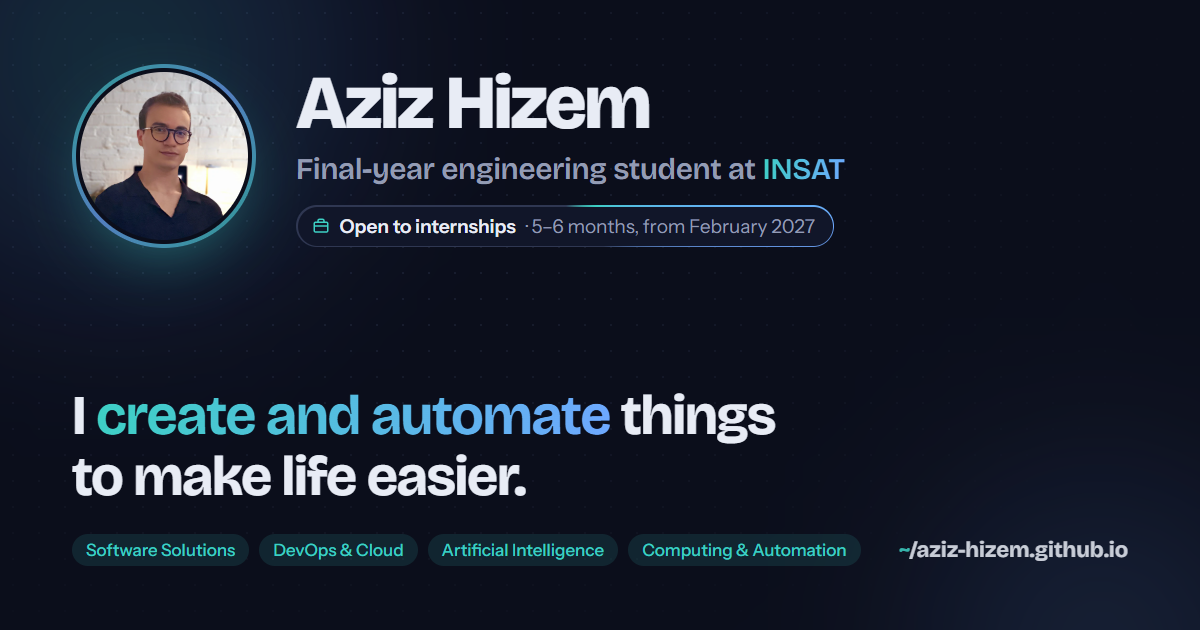
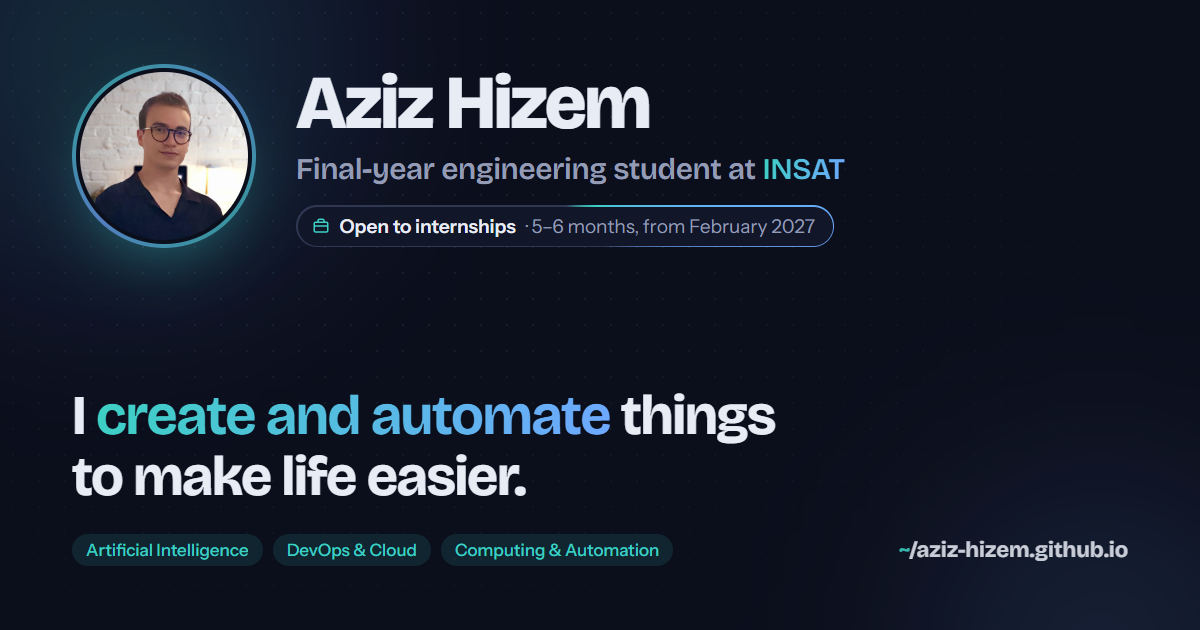
Focus tags: Artificial Intelligence, DevOps & Cloud, Computing & Automation
Drops Software Solutions, on the site and on the link-preview picture.

Changed region(s): [[0.37, 0.8444, 0.7092, 0.9048], [0.0617, 0.8444, 0.3392, 0.9048]]

diff --git a/src/data/profile.js b/src/data/profile.js
@@ -12,7 +12,7 @@ export const profile = {
     label: 'Open to internships',
     detail: 'End-of-studies internship, 5–6 months, starting February 2027',
   },
-  interests: ['Software Solutions', 'DevOps & Cloud', 'Artificial Intelligence', 'Computing & Automation'],
+  interests: ['Artificial Intelligence', 'DevOps & Cloud', 'Computing & Automation'],
   links: {
     github: 'https://github.com/aziz-hizem',
     linkedin: 'https://www.linkedin.com/in/azizhizem/',

diff --git a/tools/og-image.html b/tools/og-image.html
@@ -93,7 +93,7 @@
 
     <div class="footer">
       <div class="tags">
-        <span>Software Solutions</span><span>DevOps &amp; Cloud</span><span>Artificial Intelligence</span><span>Computing &amp; Automation</span>
+        <span>Artificial Intelligence</span><span>DevOps &amp; Cloud</span><span>Computing &amp; Automation</span>
       </div>
       <div class="url"><i>~</i>/aziz-hizem.github.io</div>
     </div>
